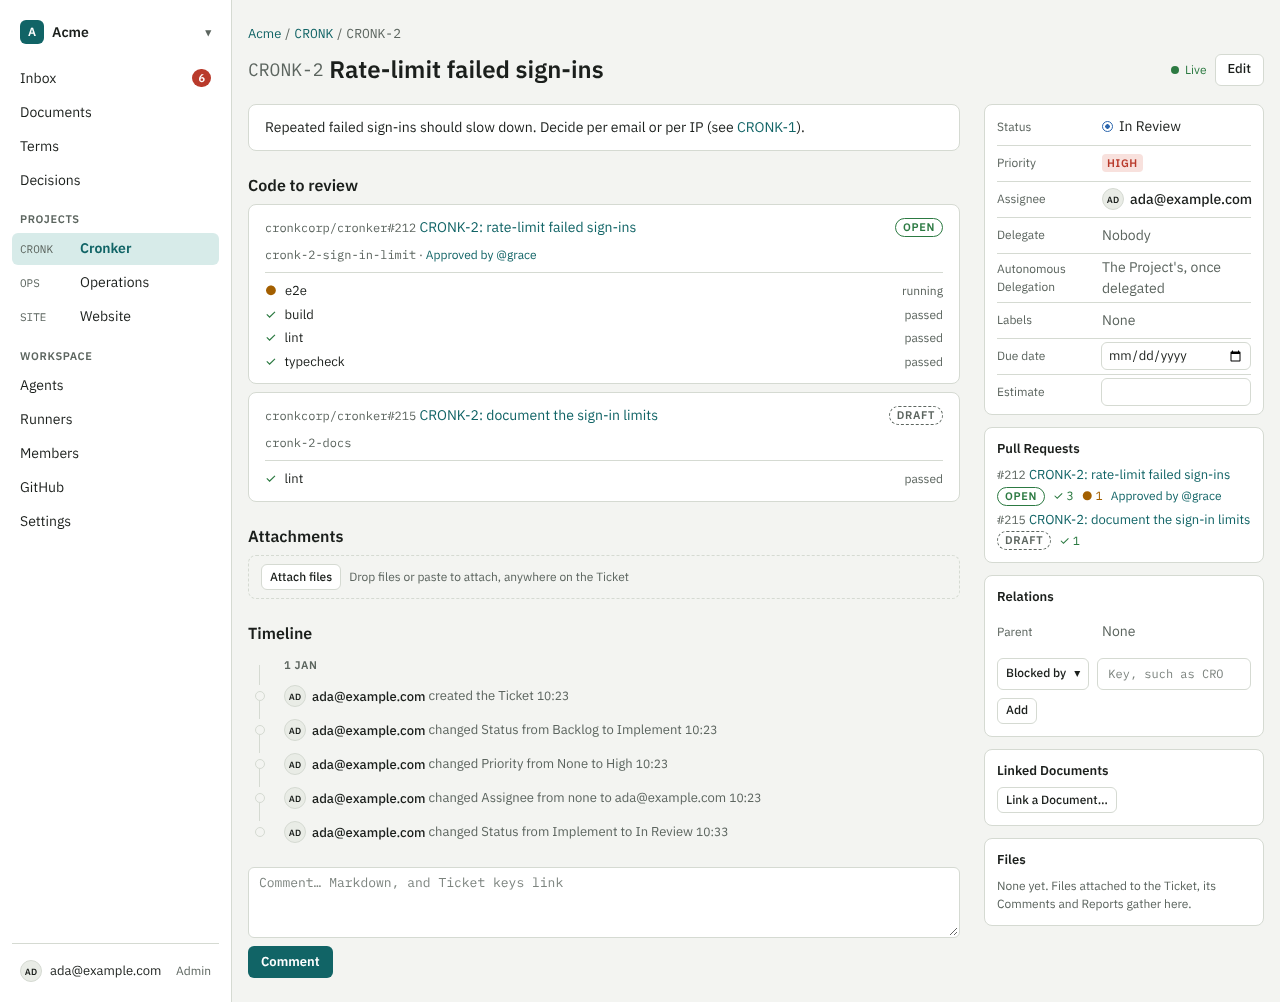
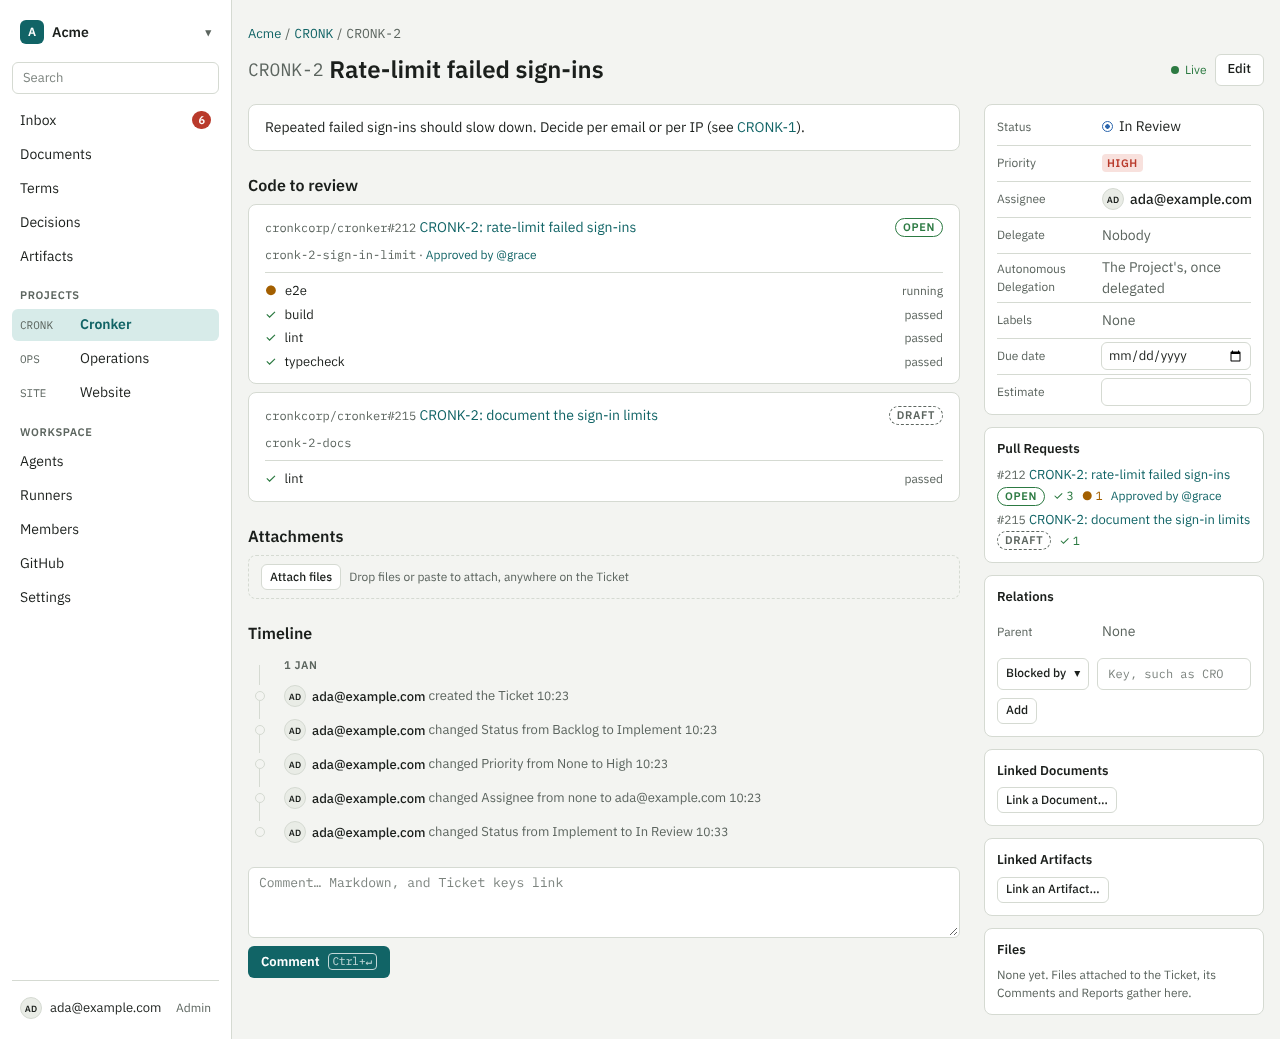
docs(ui): retake the other screenshots the sidebar's search box and Artifacts outdated
The sidebar gained its search box and Artifacts after these were taken; the
Project also gained the Merge Status, the Ticket's side panel gained Linked
Artifacts and its Comment buttons the shortcut hint. artifact.png already shows
the current frame and stays; the token sheets stay as the old Cronk's
prototype. The intro no longer says the shots date from the styling pass.

diff --git a/docs/ui.md b/docs/ui.md
@@ -2,7 +2,7 @@
 
 How Cronk's web client looks and behaves. Read this before changing anything in the web client. Vocabulary follows `CONTEXT.md`. The UI holds no rules (`docs/testing.md`), so everything here is about presentation.
 
-This direction comes from the old Cronk (`CronkCorp/Cronk`, its `docs/ui.md`), adapted to this rewrite. The screenshots in `docs/ui/` are of the web client itself, taken at 1280px when the styling pass ended, except the token sheets (`tokens-light.png`, `tokens-dark.png`), which are the old Cronk's prototype and still show its four Status categories. Where a screenshot and this text differ, the text wins.
+This direction comes from the old Cronk (`CronkCorp/Cronk`, its `docs/ui.md`), adapted to this rewrite. The screenshots in `docs/ui/` are of the web client itself, taken in a window 1280px wide (the phone's 390px) and kept current as [Changing this document](#changing-this-document) says, except the token sheets (`tokens-light.png`, `tokens-dark.png`), which are the old Cronk's prototype and still show its four Status categories. Where a screenshot and this text differ, the text wins.
 
 The web client follows this file since the styling pass at the end of milestone 2 (`docs/roadmap.md`). The tokens live in `web/src/styles/tokens.css`, the shared components in `web/src/ui/`, the frame in `web/src/frame.tsx`, and each screen's layout in `web/src/styles/screens.css`. New screens build on them.
 
